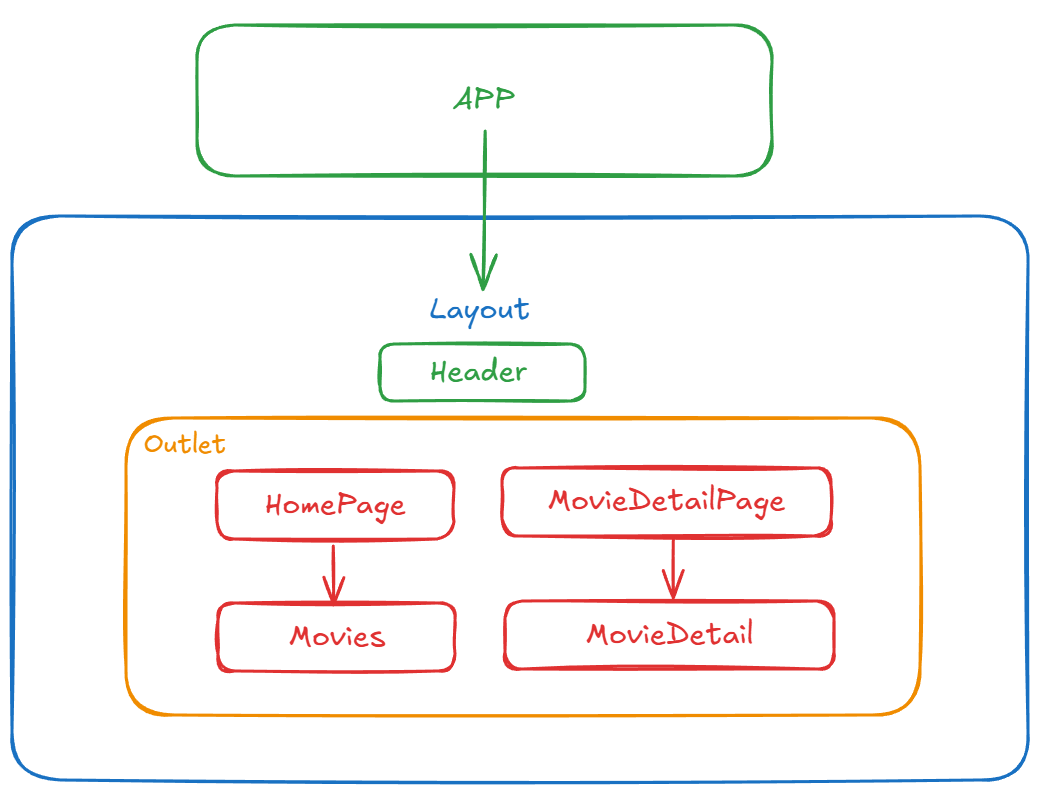
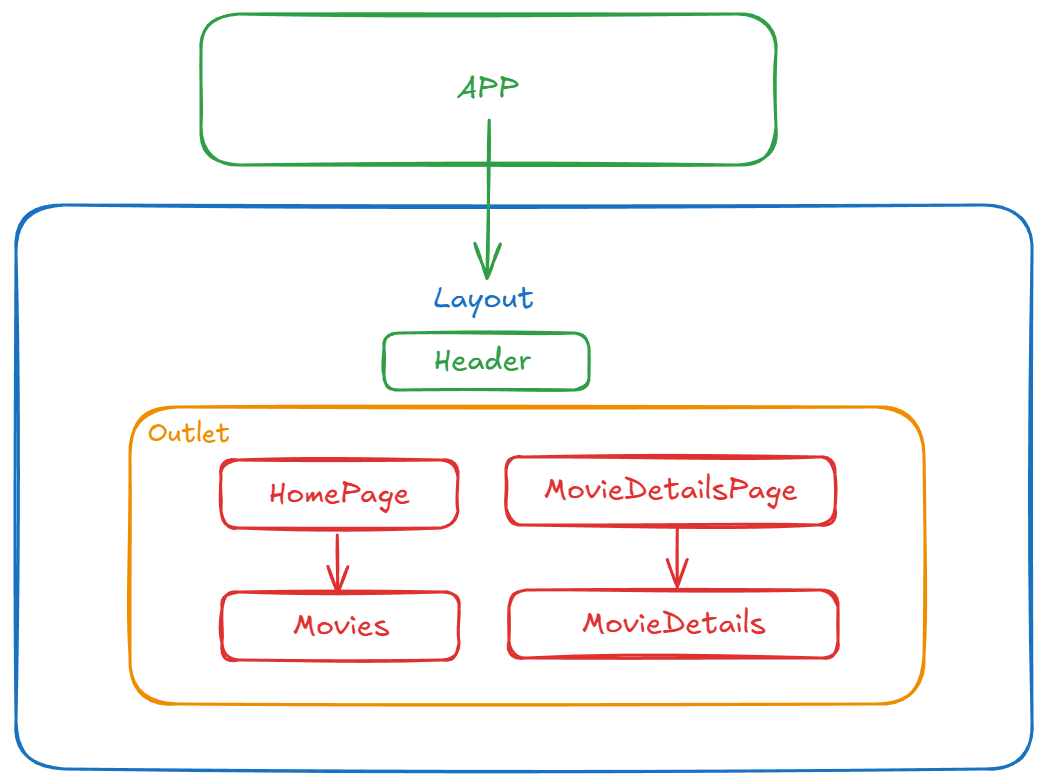
Milestone 2: - Create pagine "HomePage" e "MovieDetailsPage" in pages - Creati componenti "Movies" e "MoveDetails" in components - Aggiornato schema - Definito layout di base - Impostate rotte per le diverse pagine.

diff --git a/src/App.jsx b/src/App.jsx
@@ -1,11 +1,36 @@
-import { BrowserRouter, Routes, Route } from 'react-router-dom'
 import './App.css'
+import { BrowserRouter, Routes, Route } from 'react-router-dom';   // Import libreria di Routing
+import DefaultLayout from './layout/DefaultLayout';                // Import Layout principale pagina
+import HomePage from './pages/HomePage';                           // Import Pagina Home
+import MovieDetailsPage from './pages/MovieDetailsPage';           // Import Pagina dettagli film
 
 function App() {
 
   return (
+
     <>
-      <h1> App.jsx </h1>
+      {/*****************************
+              GESTIONE DELLE ROTTE
+        *******************************/}
+      <BrowserRouter>
+        
+        {/* Componente che raggruppa tutte le rotte */}
+        <Routes>
+
+          {/* Rotta genitore - contenete il layout */}
+          <Route element = {<DefaultLayout/>}>
+
+            {/* Rotte figlie - mostrate dentro <Outlet/> */}
+            <Route path='/movies'>
+              <Route index element={<HomePage />} />
+              <Route path=":id" element={<MovieDetailsPage />} />
+            </Route>
+
+          </Route>
+
+        </Routes>
+
+      </BrowserRouter>
     </>
   )
 }

diff --git a/src/layout/DefaultLayout.jsx b/src/layout/DefaultLayout.jsx
@@ -1,0 +1,21 @@
+import {Outlet} from 'react-router-dom';
+import Header from '../components/Header'
+
+function DefaultLayout() {
+
+    return(
+        <>
+            <header>
+                <Header/>
+            </header>
+
+            <main>
+                <Outlet/>
+            </main>
+        </>
+       
+    )
+    
+}
+
+export default DefaultLayout;

diff --git a/src/components/MovieDetails.jsx b/src/components/MovieDetails.jsx
@@ -1,0 +1,13 @@
+/************************** Componente Movie Details ****************************/
+
+function MovieDetails() {
+
+    /***************
+        RENDERING
+    ***************/
+    return (
+        <h1> Componente Movie Details</h1>
+    )
+}
+
+export default MovieDetails;

diff --git a/src/components/Movies.jsx b/src/components/Movies.jsx
@@ -1,0 +1,13 @@
+/************************** Componente Movies ****************************/
+
+function Movies() {
+
+    /***************
+        RENDERING
+    ***************/
+    return(
+        <h1> Componente Movies </h1>
+    )
+}
+
+export default Movies;

diff --git a/src/pages/MovieDetailsPage.jsx b/src/pages/MovieDetailsPage.jsx
@@ -1,0 +1,10 @@
+/* Pagina dettagli di un film che mostra il componente MovieDetails */
+
+import MovieDetails from '../components/MovieDetails.jsx'
+
+function MovieDetailsPage() {
+    return (
+        <MovieDetails/>
+    )
+}
+export default MovieDetailsPage;

diff --git a/src/pages/HomePage.jsx b/src/pages/HomePage.jsx
@@ -1,0 +1,10 @@
+/* Homepage che mostra il componente Movies */
+
+import Movies from '../components/Movies.jsx'
+
+function HomePage() {
+    return (
+        <Movies/>
+    )
+}
+export default HomePage;

diff --git a/src/components/Header.jsx b/src/components/Header.jsx
@@ -1,0 +1,9 @@
+/************************** Componente Header ****************************/
+
+function Header() {
+    return(
+        <h1> Header </h1>
+    )
+}
+
+export default Header;
